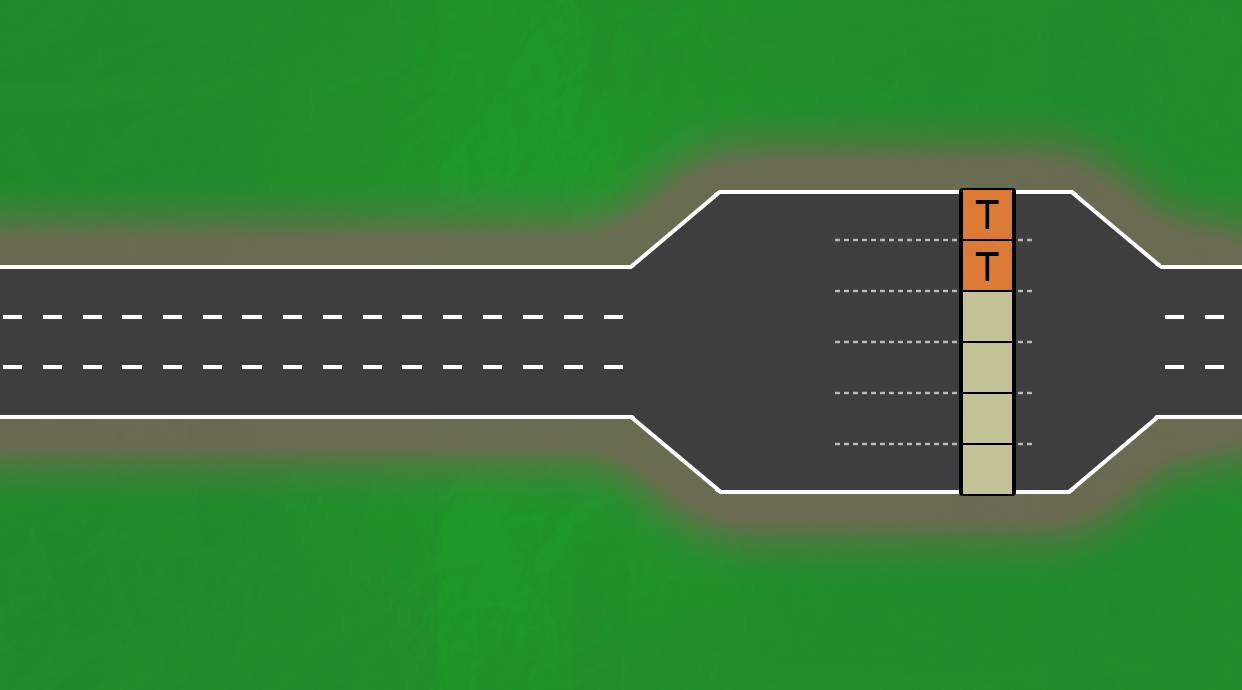
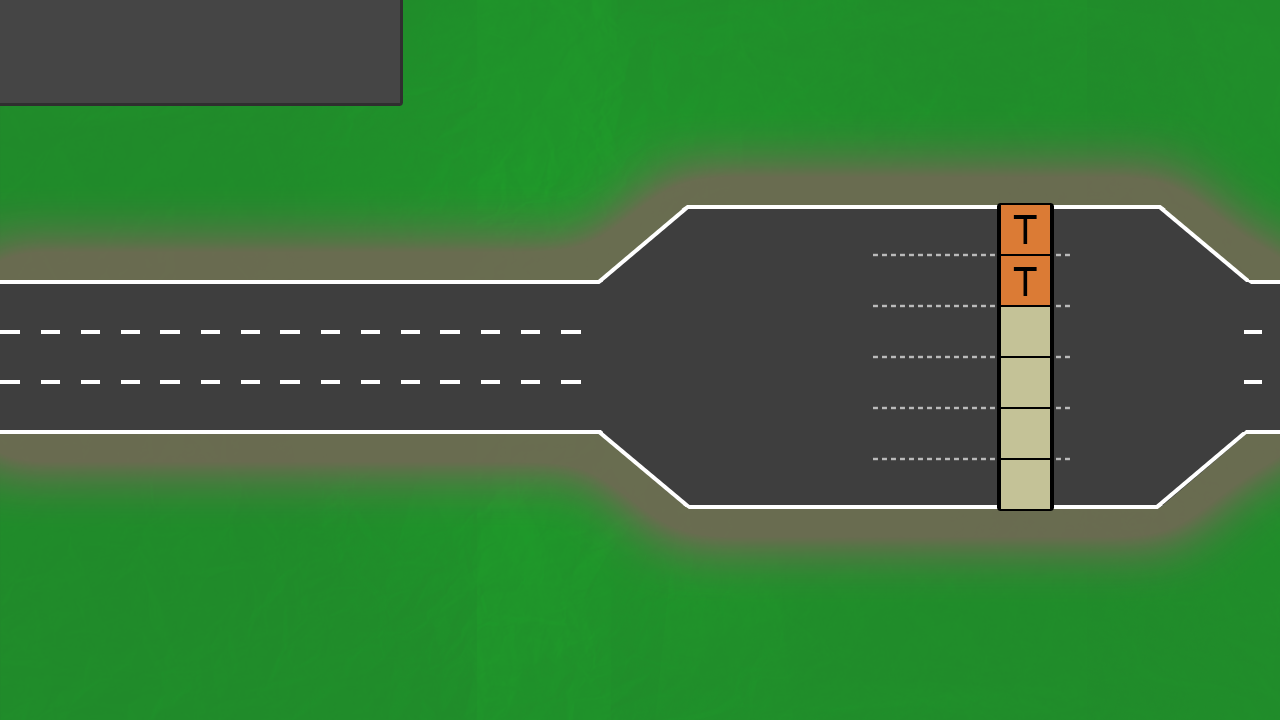
Modifs de jeudi matin !

diff --git a/odiard-pasini-peage/CarAgent.cs b/odiard-pasini-peage/CarAgent.cs
@@ -26,11 +26,10 @@ namespace odiard_pasini_peage
 
         //param
         public static double MIN_DISTANCE = 70;                 // in pixels
-        public static double MIN_DISTANCE_SQUARED = 500;        // in pixels
         public static int ACCELERATION = 40;                    // in number of steps required to reach 0 -> max speed
         public static int HALF_ACCELERATION = ACCELERATION / 2; // opti
         public static int BRAKES_EFFICIENCY = 2;                // car brakes are X times more efficient than car acceleration
-        public static int SPAWN_RATE = 15;                      // X = 1/X% chance per step
+        public static int SPAWN_RATE = 1;                      // X = 1/X% chance per step
         public static int T_RATE = 30;                          // X = X% of cars being orange (Télépéage)
         public static int STEP = 20;                            // in milliseconds
         public static int STEPS_PER_SECOND = 1000 / STEP;       // 50 steps/sec for 20ms steps, opti
@@ -56,6 +55,7 @@ namespace odiard_pasini_peage
         private bool flagVerticalProx;
         private bool flagHorizontalProx;
         public double angle;
+        private double proximity;
 
         //getter setter propre et optimisé
         //en interne road pour appeler directement la propriété
@@ -124,6 +124,11 @@ namespace odiard_pasini_peage
         {
             get { return flagHorizontalProx; }
             set { flagHorizontalProx = value; }
+        }
+        public double Proximity
+        {
+            get { return proximity; }
+            set { proximity = value; }
         }
 
         // Constructor
@@ -340,7 +345,7 @@ namespace odiard_pasini_peage
         public void updateSpeed(CarAgent[] listCars)
         {
             // Obstacle detection :
-            double proximity = speedX;
+            proximity = speedX;
             flagVerticalProx = false;
             flagHorizontalProx = false;
             // CarAgent closestCar;
@@ -450,6 +455,7 @@ namespace odiard_pasini_peage
             {
                 // UP or DOWN?
                 int direction = (targetY > PosY ? 1 : -1);
+                int directionMov = (speedY >= 0 ? 1 : -1);
 
                 double differenceAbs = Math.Abs(targetY - PosY);
 
@@ -465,7 +471,7 @@ namespace odiard_pasini_peage
                     bool flagDeceleration = false;
                     if (Math.Abs(speedY) > Math.Abs(targetYSpeed))
                     {
-                        speedY += ((-Road.MAX_SPEED_ROAD_3 * direction) / ACCELERATION);
+                        speedY += ((-Road.MAX_SPEED_ROAD_3 * directionMov) / ACCELERATION);
                         flagDeceleration = true;
                     }
 

diff --git a/odiard-pasini-peage/MainWindow.xaml.cs b/odiard-pasini-peage/MainWindow.xaml.cs
@@ -20,7 +20,7 @@ namespace odiard_pasini_peage
     {
         // ===============================
         // DEBUG MODE CONTROL
-        public const bool DEBUGMODE = true;
+        public const bool DEBUGMODE = false;
         // ===============================
 
         // TODO :
@@ -148,6 +148,25 @@ namespace odiard_pasini_peage
                 RotateTransform myRotateTransform = new RotateTransform(0);
                 body.RenderTransform = myRotateTransform;
                 myRotateTransform.Angle = paramCar.angle;
+
+                if (DEBUGMODE)
+                {
+                    TextBlock tbCarID = new TextBlock();
+                    tbCarID.Text = paramCar.Id + " | Vit " + Math.Truncate(paramCar.SpeedX) + " | Prox " + Math.Truncate(paramCar.Proximity);
+                    if (paramCar.isBraking == 1)
+                    {
+                        tbCarID.Foreground = new SolidColorBrush(Colors.LightSalmon);
+                    }
+                    else
+                    {
+                        tbCarID.Foreground = new SolidColorBrush(Colors.LightBlue);
+                    }
+                    Canvas.SetTop(tbCarID, (paramCar.PosY + 8));
+                    Canvas.SetLeft(tbCarID, (paramCar.PosX - 50));
+                    Canvas.SetZIndex(tbCarID, 1);
+                    worldCanvas.Children.Add(tbCarID);
+                }
+
                 Canvas.SetTop(body, (paramCar.PosY - CarAgent.HALF_CAR_HEIGHT));
                 Canvas.SetLeft(body, (paramCar.PosX - CarAgent.HALF_CAR_WIDTH));
                 worldCanvas.Children.Add(body);

diff --git a/odiard-pasini-peage/Road.cs b/odiard-pasini-peage/Road.cs
@@ -9,8 +9,8 @@ namespace odiard_pasini_peage
     public class Road
     {
         //const
-        public const int ZONE_TRANSITION_START = 304;   // in horizontal pixels from left border
-        public const int ZONE_PEAGE_START = 671;        // in horizontal pixels from left border
+        public const int ZONE_TRANSITION_START = 204;   // in horizontal pixels from left border
+        public const int ZONE_PEAGE_START = 571;        // in horizontal pixels from left border
         public const int ZONE_GUICHET_START = 999;     // in horizontal pixels from left border
         public const int ZONE_GUICHET_LENGTH = 46;      // in horizontal pixels from left border
         public const int ZONE_PEAGE_END = 1197;         // in horizontal pixels from left border

diff --git a/odiard-pasini-peage/World.cs b/odiard-pasini-peage/World.cs
@@ -13,7 +13,7 @@ namespace odiard_pasini_peage
     {
         public event WorldUpdated WorldUpdatedEvent;
 
-        public CarAgent[] carList = new CarAgent[200]; //mieux vaut déclarer la dimension du tableau directement
+        public CarAgent[] carList = new CarAgent[100]; //mieux vaut déclarer la dimension du tableau directement
         public Road[] roadsArray = new Road[3];
 
         public World()
